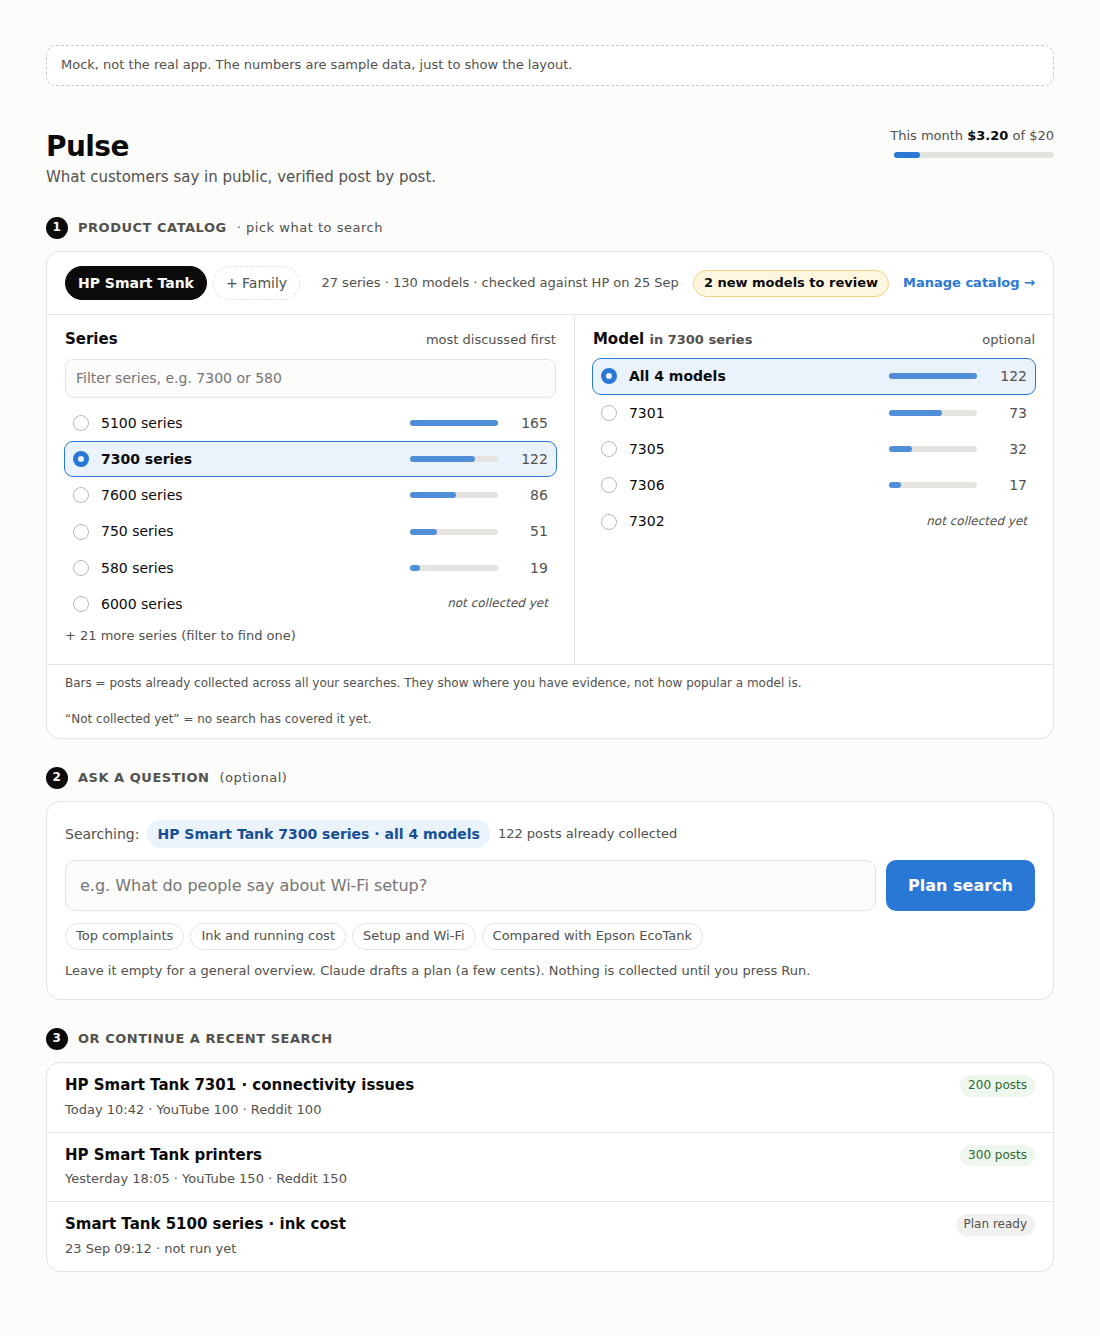
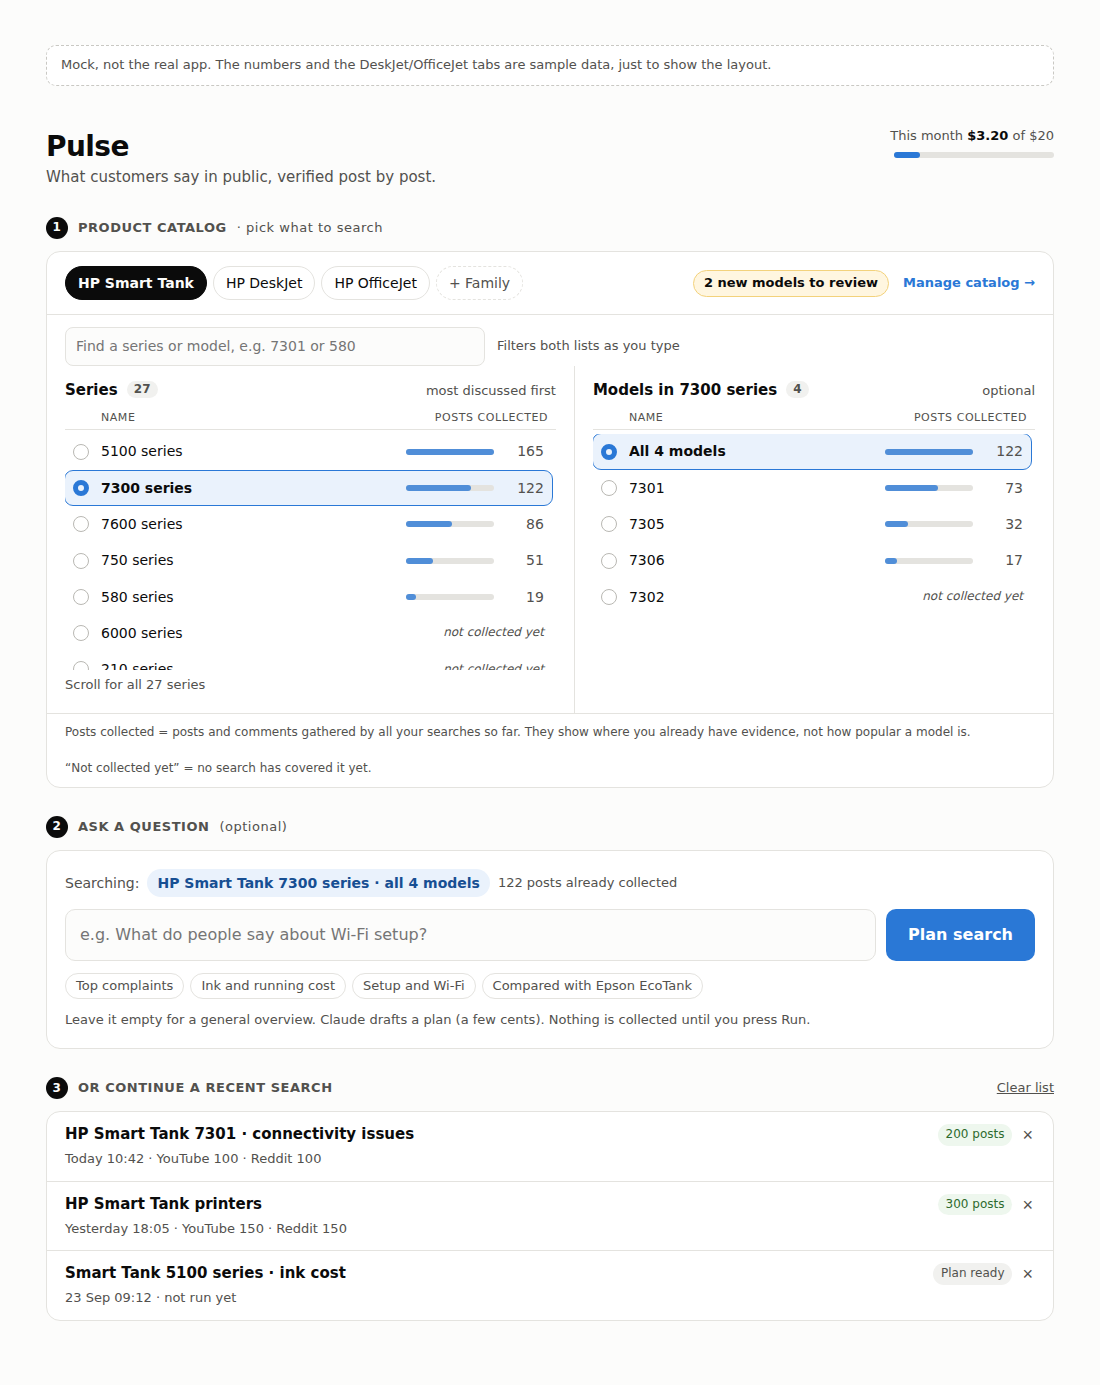
Home mock v2: shared finder, counts in section titles, scroll lists, recent-search clear/remove
Claude-Session: https://claude.ai/code/session_01GqskM6HNma7VefbXzf17h8

diff --git a/mockups/home-v2.html b/mockups/home-v2.html
@@ -76,6 +76,16 @@
   .status { font-size: 12px; padding: 2px 8px; border-radius: 99px; background: #eef7ee; color: #2d6a2d; align-self: start; }
   .status.wait { background: #f1f1ef; color: var(--muted); }
 
+  .finder { display: flex; align-items: center; gap: 12px; padding: 12px 18px 0; }
+  .finder .filter { max-width: 420px; margin: 0; }
+  .count { display: inline-block; margin-left: 4px; padding: 0 7px; border-radius: 99px; background: #f1f1ef; color: var(--muted); font-size: 12px; font-weight: 600; vertical-align: 2px; }
+  .cols-head { display: grid; grid-template-columns: 18px minmax(0,1fr) 128px; gap: 10px; padding: 0 8px 4px; font-size: 11px; text-transform: uppercase; letter-spacing: .05em; color: var(--muted); border-bottom: 1px solid var(--border); margin-bottom: 4px; }
+  .cols-head span:last-child { text-align: right; }
+  .scroll { height: 236px; overflow-y: scroll; padding-right: 4px; scrollbar-width: thin; }
+  .scroll .row { flex-shrink: 0; }
+  .step-row { display: flex; justify-content: space-between; align-items: baseline; }
+  .rt { display: flex; align-items: center; gap: 8px; }
+  .x { border: 0; background: none; color: var(--muted); font-size: 18px; line-height: 1; cursor: pointer; padding: 0 2px; }
   .note { border: 1px dashed #c9c8c3; border-radius: 10px; padding: 10px 14px; font-size: 13px; color: var(--muted); background: #fff; }
 
   @media (max-width: 720px) {
@@ -86,12 +96,14 @@
     .go { padding: 13px; }
     .row { grid-template-columns: 18px minmax(0,1fr) 60px 34px; }
     .hide-m { display: none; }
+    .cols-head { grid-template-columns: 18px minmax(0,1fr) 100px; }
+    .finder { flex-direction: column; align-items: stretch; gap: 4px; }
   }
 </style>
 </head>
 <body>
 <main>
-  <p class="note">Mock, not the real app. The numbers are sample data, just to show the layout.</p>
+  <p class="note">Mock, not the real app. The numbers and the DeskJet/OfficeJet tabs are sample data, just to show the layout.</p>
 
   <header>
     <div>
@@ -108,33 +120,45 @@
       <div class="prod-head">
         <div class="tabs">
           <span class="tab on">HP Smart Tank</span>
+          <span class="tab">HP DeskJet</span>
+          <span class="tab">HP OfficeJet</span>
           <span class="tab add">+ Family</span>
         </div>
         <div class="prod-meta">
-          <span class="muted">27 series · 130 models · checked against HP on 25 Sep</span>
           <a class="pill" href="#">2 new models to review</a>
           <a class="manage" href="#">Manage catalog →</a>
         </div>
       </div>
 
+      <div class="finder">
+        <input class="filter" placeholder="Find a series or model, e.g. 7301 or 580" />
+        <span class="small muted">Filters both lists as you type</span>
+      </div>
       <div class="prod-body">
         <div class="col">
-          <div class="col-title"><h3>Series</h3><span class="small muted">most discussed first</span></div>
-          <input class="filter" placeholder="Filter series, e.g. 7300 or 580" />
-          <ul class="rows">
+          <div class="col-title"><h3>Series <span class="count">27</span></h3><span class="small muted">most discussed first</span></div>
+          <div class="cols-head"><span></span><span>Name</span><span>Posts collected</span></div>
+          <ul class="rows scroll">
             <li class="row"><span class="radio"></span><span class="name">5100 series</span><span class="bar"><i style="width:100%"></i></span><span class="num">165</span></li>
             <li class="row on"><span class="radio"></span><span class="name">7300 series</span><span class="bar"><i style="width:74%"></i></span><span class="num">122</span></li>
             <li class="row"><span class="radio"></span><span class="name">7600 series</span><span class="bar"><i style="width:52%"></i></span><span class="num">86</span></li>
             <li class="row"><span class="radio"></span><span class="name">750 series</span><span class="bar"><i style="width:31%"></i></span><span class="num">51</span></li>
             <li class="row"><span class="radio"></span><span class="name">580 series</span><span class="bar"><i style="width:12%"></i></span><span class="num">19</span></li>
             <li class="row"><span class="radio"></span><span class="name">6000 series</span><span class="none">not collected yet</span></li>
+            <li class="row"><span class="radio"></span><span class="name">210 series</span><span class="none">not collected yet</span></li>
+            <li class="row"><span class="radio"></span><span class="name">670 series</span><span class="none">not collected yet</span></li>
+            <li class="row"><span class="radio"></span><span class="name">5000 series</span><span class="none">not collected yet</span></li>
+            <li class="row"><span class="radio"></span><span class="name">6000 Plus series</span><span class="none">not collected yet</span></li>
+            <li class="row"><span class="radio"></span><span class="name">7000 series</span><span class="none">not collected yet</span></li>
+            <li class="row"><span class="radio"></span><span class="name">790 series</span><span class="none">not collected yet</span></li>
           </ul>
-          <div class="more">+ 21 more series (filter to find one)</div>
+          <div class="more">Scroll for all 27 series</div>
         </div>
 
         <div class="col">
-          <div class="col-title"><h3>Model <span class="small muted">in 7300 series</span></h3><span class="small muted">optional</span></div>
-          <ul class="rows">
+          <div class="col-title"><h3>Models in 7300 series <span class="count">4</span></h3><span class="small muted">optional</span></div>
+          <div class="cols-head"><span></span><span>Name</span><span>Posts collected</span></div>
+          <ul class="rows scroll">
             <li class="row on"><span class="radio"></span><span class="name">All 4 models</span><span class="bar"><i style="width:100%"></i></span><span class="num">122</span></li>
             <li class="row"><span class="radio"></span><span class="name">7301</span><span class="bar"><i style="width:60%"></i></span><span class="num">73</span></li>
             <li class="row"><span class="radio"></span><span class="name">7305</span><span class="bar"><i style="width:26%"></i></span><span class="num">32</span></li>
@@ -145,7 +169,7 @@
       </div>
 
       <div class="legend">
-        <span>Bars = posts already collected across all your searches. They show where you have evidence, not how popular a model is.</span>
+        <span>Posts collected = posts and comments gathered by all your searches so far. They show where you already have evidence, not how popular a model is.</span>
         <span>“Not collected yet” = no search has covered it yet.</span>
       </div>
     </div>
@@ -167,12 +191,12 @@
 
   <!-- 3. RECENT -->
   <section>
-    <p class="step"><b>3</b> Or continue a recent search</p>
+    <div class="step-row"><p class="step"><b>3</b> Or continue a recent search</p><a href="#" class="small muted">Clear list</a></div>
     <div class="card">
       <ul class="recent">
-        <li><span class="q">HP Smart Tank 7301 · connectivity issues</span><span class="status">200 posts</span><span class="small muted">Today 10:42 · YouTube 100 · Reddit 100</span></li>
-        <li><span class="q">HP Smart Tank printers</span><span class="status">300 posts</span><span class="small muted">Yesterday 18:05 · YouTube 150 · Reddit 150</span></li>
-        <li><span class="q">Smart Tank 5100 series · ink cost</span><span class="status wait">Plan ready</span><span class="small muted">23 Sep 09:12 · not run yet</span></li>
+        <li><span class="q">HP Smart Tank 7301 · connectivity issues</span><span class="rt"><span class="status">200 posts</span><button class="x" aria-label="Remove">×</button></span><span class="small muted">Today 10:42 · YouTube 100 · Reddit 100</span></li>
+        <li><span class="q">HP Smart Tank printers</span><span class="rt"><span class="status">300 posts</span><button class="x" aria-label="Remove">×</button></span><span class="small muted">Yesterday 18:05 · YouTube 150 · Reddit 150</span></li>
+        <li><span class="q">Smart Tank 5100 series · ink cost</span><span class="rt"><span class="status wait">Plan ready</span><button class="x" aria-label="Remove">×</button></span><span class="small muted">23 Sep 09:12 · not run yet</span></li>
       </ul>
     </div>
   </section>
